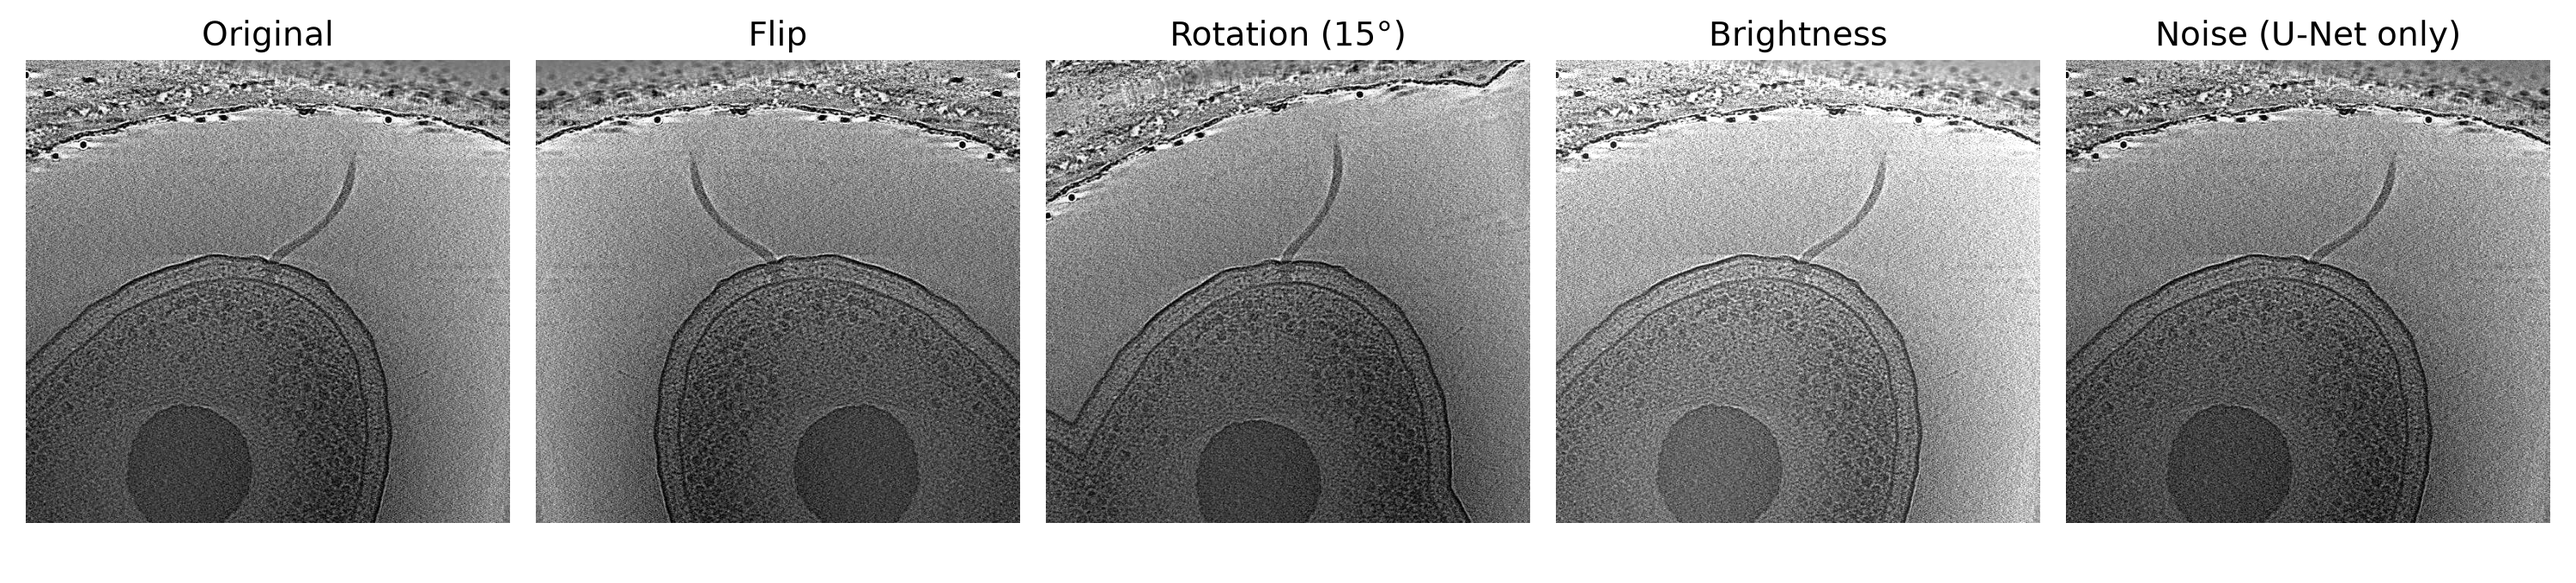
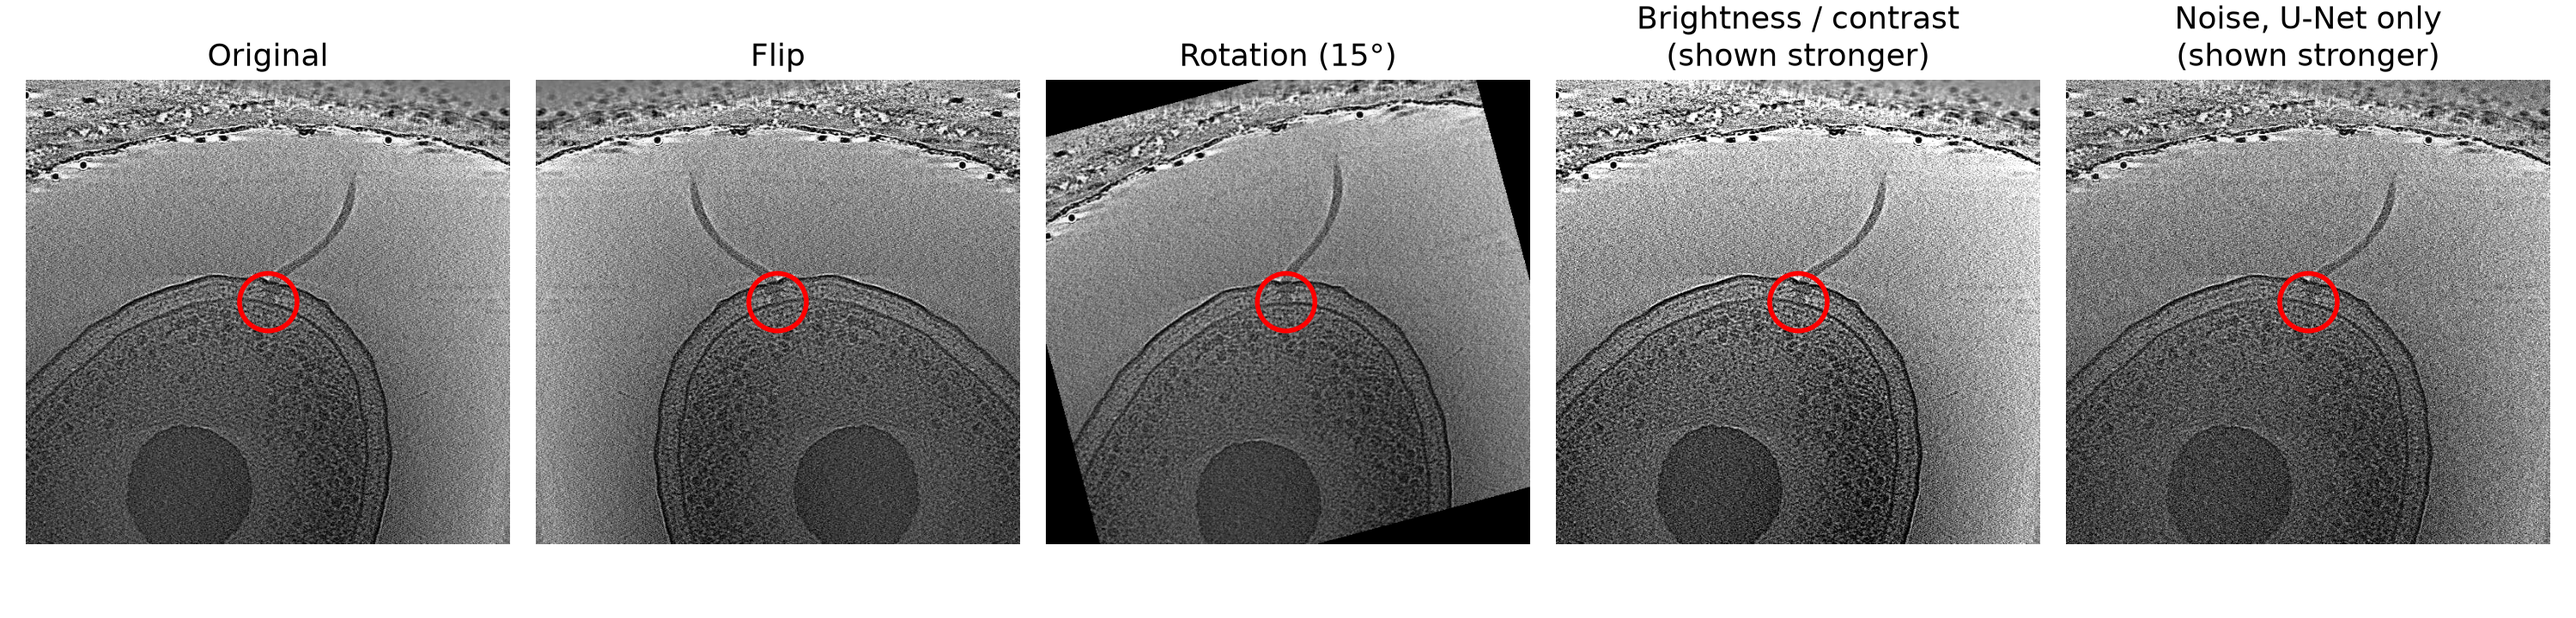
Augmentation example figure with motor marker

diff --git a/tp2/make_aug_examples.py b/tp2/make_aug_examples.py
@@ -1,39 +1,50 @@
 import numpy as np, pandas as pd, matplotlib
 matplotlib.use("Agg")
 import matplotlib.pyplot as plt
+from matplotlib.patches import Circle
 from PIL import Image
 from scipy.ndimage import rotate
 
 sl = pd.read_csv("processed/slices.csv")
 gt = pd.read_csv("processed/gt.csv")
-print("gt columns:", list(gt.columns))
 val = sl[(sl.split == "val") & (sl.has_motor == 1)]
-m = val.merge(gt, on="slice_id", how="inner", suffixes=("", "_gt"))
-ycol = "y" if "y" in m.columns else [c for c in m.columns if c.endswith("y")][0]
-xcol = "x" if "x" in m.columns else [c for c in m.columns if c.endswith("x")][0]
-# motor well inside the image (not at the border)
-ok = m[(m[ycol] > 0.3 * m.height) & (m[ycol] < 0.7 * m.height) &
-       (m[xcol] > 0.3 * m.width) & (m[xcol] < 0.7 * m.width)]
+m = val.merge(gt, on="slice_id", how="inner")
+ok = m[(m.y > 0.3 * m.height) & (m.y < 0.7 * m.height) &
+       (m.x > 0.3 * m.width) & (m.x < 0.7 * m.width)]
 r = ok.iloc[0]
-print("using slice:", r.slice_id, "motor at", r[ycol], r[xcol])
+print("using slice:", r.slice_id, "motor at", r.y, r.x)
 
 img = np.array(Image.open(r.path).convert("L")).astype(float) / 255
 H = 320
-cy, cx = int(r[ycol]), int(r[xcol])
-crop = img[max(cy - H, 0):cy + H, max(cx - H, 0):cx + H]
+cy, cx = int(r.y), int(r.x)
+y0, x0 = max(cy - H, 0), max(cx - H, 0)
+crop = img[y0:cy + H, x0:cx + H]
+my, mx = cy - y0, cx - x0
+mark = np.zeros_like(crop)
+mark[my, mx] = 1.0
+
+def where(a):
+    i = np.unravel_index(np.argmax(a), a.shape)
+    return i[1], i[0]
 
 rng = np.random.default_rng(1)
-flip = crop[:, ::-1]
-rot = rotate(crop, 15, reshape=False, mode="reflect")
-bri = np.clip(crop * 1.2 + 0.1, 0, 1)
-noi = np.clip(crop + rng.normal(0, 0.05, crop.shape), 0, 1)
+flip, mflip = crop[:, ::-1], mark[:, ::-1]
+rot = rotate(crop, 15, reshape=False, order=1, mode="constant", cval=0)
+mrot = rotate(mark, 15, reshape=False, order=1, mode="constant", cval=0)
+bri = np.clip((crop - 0.5) * 1.4 + 0.6, 0, 1)
+noi = np.clip(crop + rng.normal(0, 0.1, crop.shape), 0, 1)
 
-panels = [("Original", crop), ("Flip", flip), ("Rotation (15°)", rot),
-          ("Brightness", bri), ("Noise (U-Net only)", noi)]
-fig, ax = plt.subplots(1, 5, figsize=(15, 3.4))
-for a, (t, im) in zip(ax, panels):
+panels = [("Original", crop, mark),
+          ("Flip", flip, mflip),
+          ("Rotation (15°)", rot, mrot),
+          ("Brightness / contrast\n(shown stronger)", bri, mark),
+          ("Noise, U-Net only\n(shown stronger)", noi, mark)]
+fig, ax = plt.subplots(1, 5, figsize=(15, 3.6))
+for a, (t, im, mk) in zip(ax, panels):
     a.imshow(im, cmap="gray", vmin=0, vmax=1)
-    a.set_title(t, fontsize=14)
+    px, py = where(mk)
+    a.add_patch(Circle((px, py), 38, fill=False, edgecolor="red", lw=2))
+    a.set_title(t, fontsize=13)
     a.axis("off")
 plt.tight_layout()
 plt.savefig("results_final/augmentation_examples.png", dpi=200)
